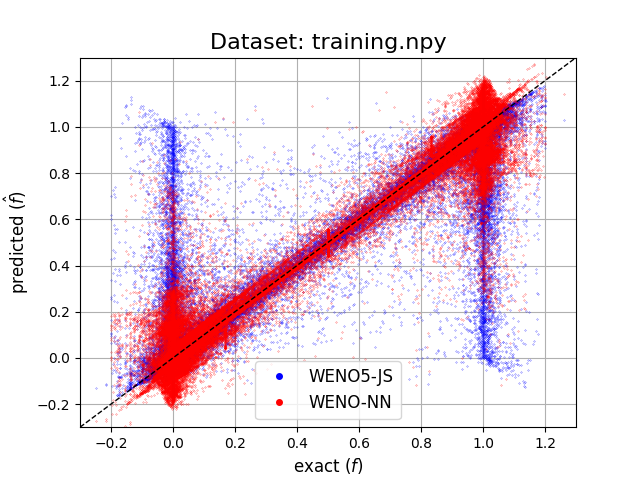
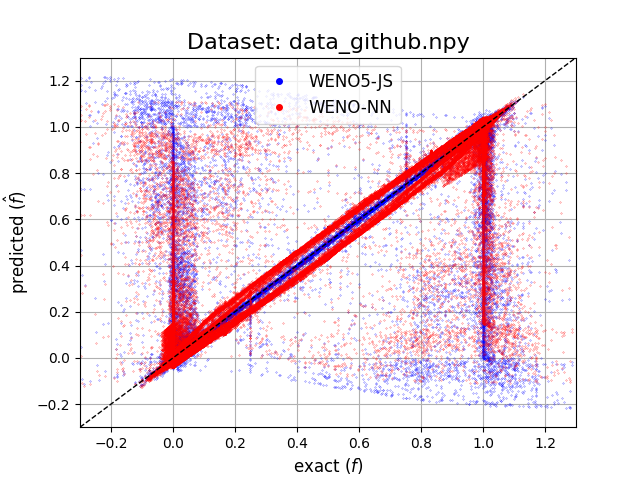
Researching on possible models

Changed region(s): [[0.125, 0.0625, 0.9062, 0.875]]

diff --git a/ML_model/train_SC.py b/ML_model/train_SC.py
@@ -22,13 +22,13 @@ def get_dataX(path):
 
 ### WENO ###
 # compute WENO5-JS coefficients
-def WENO5_getC(f_tilde):
+def WENO5_getC(f_bar):
     # check dimension (r=3)
     r = 3
-    if f_tilde.shape[1] != (2*r-1):
+    if f_bar.shape[1] != (2*r-1):
         raise ValueError("Data Dimension Must Be 5")
 
-    omega = WENO5_omega(f_tilde)
+    omega = WENO5_omega(f_bar)
     C = WENO5_C(omega)
 
     return C
@@ -145,26 +145,26 @@ def writeline(file, dtype, data):
 
 if __name__ == "__main__":
     folder = "training_data/"
-    file = "test_SC_1.npy"
-    f_bar, y = get_dataX(folder+file)
+    file_data = "test_SC_1.npy"
+    f_bar, y = get_dataX(folder+file_data)
     
     nf = f_bar.shape[1]
     c_tilde = WENO5_getC(f_bar)
-
+    
     # model inputs
     X = {"c_tilde":c_tilde, "f_bar":f_bar},
 
     # get NN model
     model = get_model()
-
+    
     # plot networks
     #keras.utils.plot_model(model, "test_WENO-NN.png")
 
-    n_epochs = 50
+    n_epochs = 10
     history = model.fit(X, y, batch_size=100, epochs=n_epochs, validation_split=0.2)
 
-    path = "test_model_SC1.bin"
-    #save_model(path, model)
+    path = "test_model_SC2.bin"
+    save_model(path, model)
 
     import matplotlib.pyplot as plt
     mse_train = history.history["root_mean_squared_error"]
@@ -180,3 +180,7 @@ if __name__ == "__main__":
     plt.legend(fontsize=14)
     plt.grid()
     plt.savefig("test_training_epoch_%i.png"%n_epochs)
+'''
+    import os
+    os.system("python3.10 view_scatter.py")
+'''

diff --git a/ML_model/view_scatter.py b/ML_model/view_scatter.py
@@ -72,8 +72,8 @@ def L2_norm(a, b):
 
 if __name__ == "__main__":
     folder = "training_data/"
-    file = "test_SC_1.npy"
-    f_bar, y = get_dataX(folder+file)
+    data_name = "data_github.npy"
+    f_bar, y = get_dataX(folder+data_name)
 
     # WENO5    
     c_tilde = WENO5_getC(f_bar)
@@ -82,8 +82,8 @@ if __name__ == "__main__":
     print("WENO5-JS error: %.3e"%(L2_norm(f_weno, y)))
 
     # Read from bin file:
-    path = "test_model.bin"
-    weights = read_model_test(path)
+    model_path = "test_model_SC2.bin"
+    weights = read_model_test(model_path)
     f_NN = model_predict(weights, c_tilde, f_bar )
     plt.plot(y, f_NN, "or", markersize=0.2, label="WENO-NN", alpha=1)
     print("WENO-NN error: %.3e"%(L2_norm(f_NN, y)))
@@ -96,7 +96,7 @@ if __name__ == "__main__":
     plt.plot(x, x, "--k", linewidth=1)
     
     # plot setting
-    plt.title("Dataset: %s"%("training.npy"), fontsize=16)
+    plt.title("Dataset: %s"%(data_name), fontsize=16)
     plt.ylabel(r"predicted ($\hat{f}$)", fontsize=12)
     plt.xlabel(r"exact ($f$)", fontsize=12)
     plt.ylim(lims)
